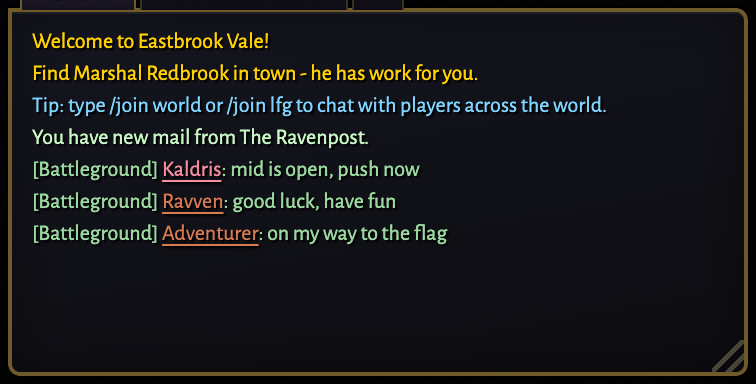
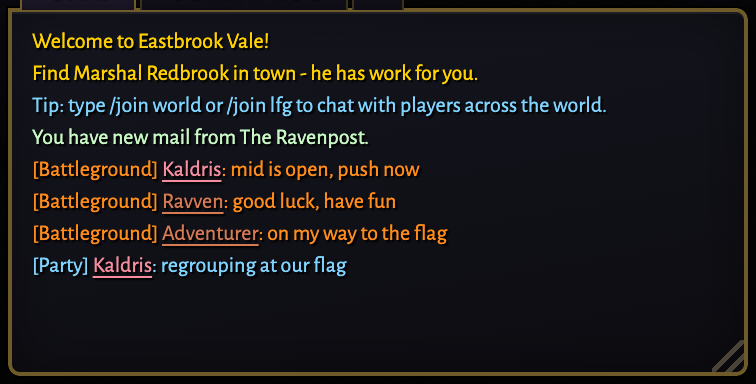
fix(ui): make battleground chat orange, not green
The green sat between lfg and guild, so the one channel that also reaches
the enemy team looked like a social channel. Your own side already talks
in party-blue, since the match welds each team into a party, so blue and
green are both taken by GROUP channels and neither fits.

Orange separates it from that family. It stays clear of world's softer
tone by saturation, and the nearest hue, emote, never collides in practice
because emotes render bare while this carries a [Battleground] prefix.

The test now asserts separation from say, party, guild and lfg rather than
just "some other color", which is the property that actually matters.

diff --git a/tests/chat_channels.test.ts b/tests/chat_channels.test.ts
@@ -462,9 +462,13 @@ describe('chat channel tabs: the battleground channel', () => {
     expect(sentLineChannel('/bgsomething gg')).toBeNull();
   });
 
-  it('carries a tab label and a log color distinct from party', () => {
+  it('carries a tab label and a log color unlike every GROUP channel', () => {
     expect(CHANNEL_LABEL_KEYS.battleground).toBe('hud.core.chatChannels.names.battleground');
-    expect(chatChannelColor('battleground')).not.toBe(chatChannelColor('say'));
-    expect(chatChannelColor('battleground')).not.toBe(chatChannelColor('party'));
+    // The point is not merely "some other color". Party, guild and lfg are the
+    // social/group channels, and this is the one channel that also reaches the
+    // enemy team, so it must not wear their family's blue or green.
+    for (const social of ['say', 'party', 'guild', 'lfg'] as const) {
+      expect(chatChannelColor('battleground')).not.toBe(chatChannelColor(social));
+    }
   });
 });

diff --git a/src/ui/hud/chat/chat_channels.ts b/src/ui/hud/chat/chat_channels.ts
@@ -114,7 +114,14 @@ const CHAT_CHANNEL_COLORS: Record<ChatColorChannel, string> = {
   say: '#f0ead8',
   yell: '#ff5040',
   party: '#7fd4ff',
-  battleground: '#9ad8a0',
+  // Deliberately warm, not green or blue: both of those are GROUP colours here
+  // (party, guild, lfg), and this is the one channel that also reaches the
+  // people trying to kill you. Your own team already talks in party-blue,
+  // since the match welds each side into a party. Separated from world's
+  // softer #ff9d5c by saturation; the nearest hue is emote, which never
+  // collides in practice because emotes render bare and this carries a
+  // [Battleground] prefix.
+  battleground: '#ff8c1a',
   general: '#ffc864',
   world: '#ff9d5c',
   lfg: '#5cd6a0',
